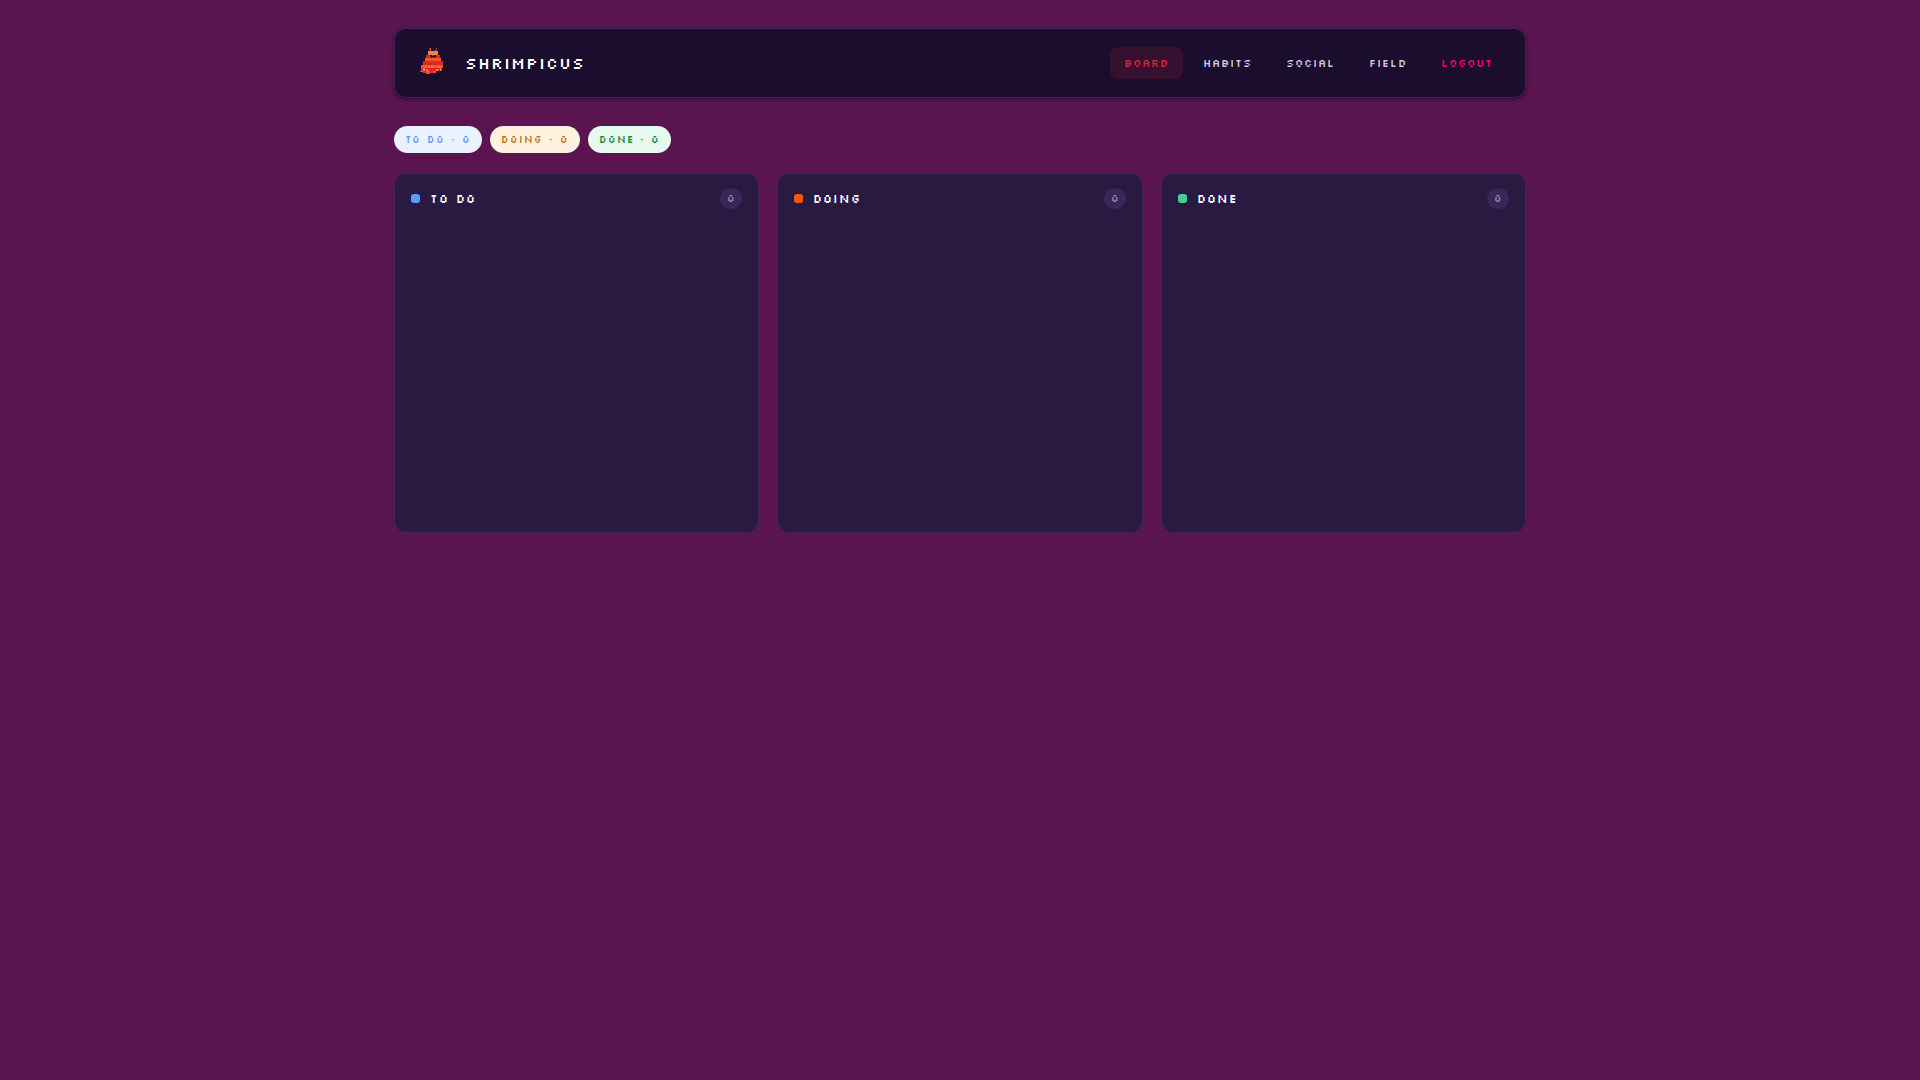
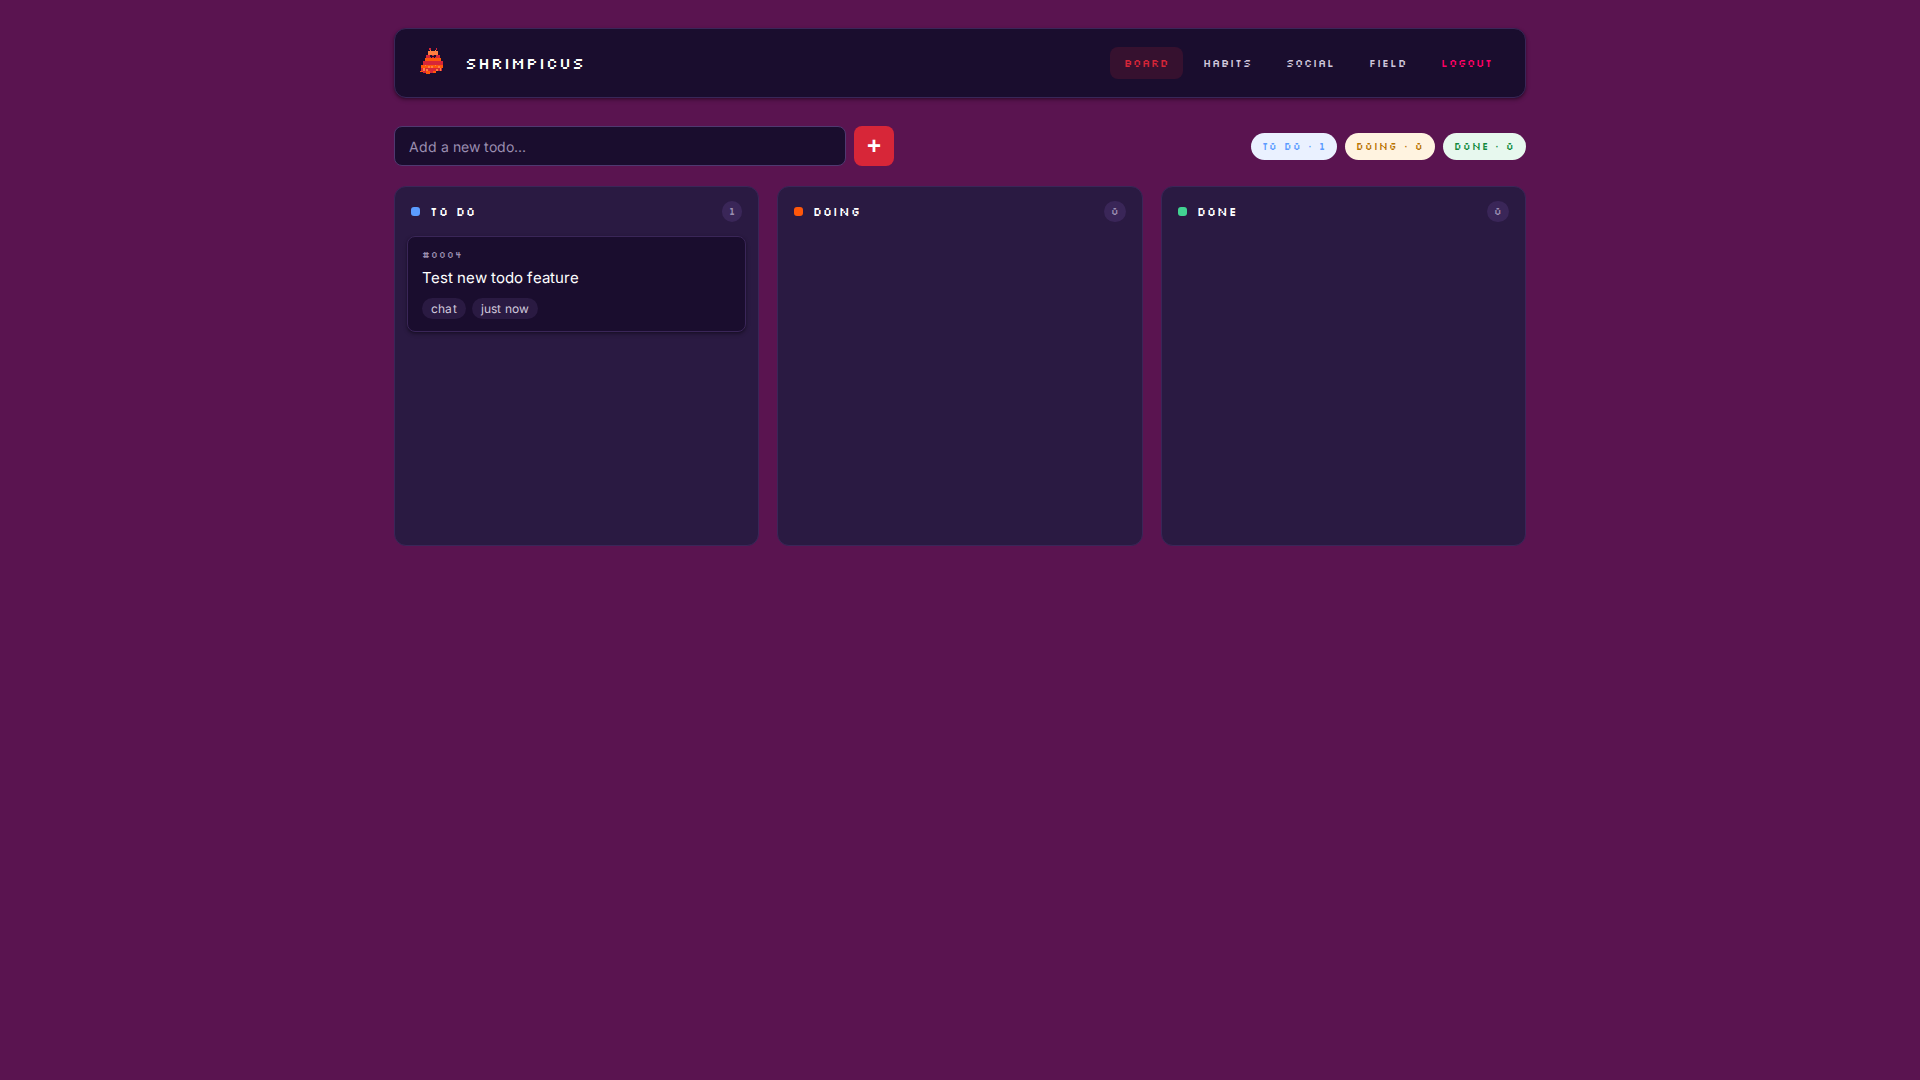
[feat]: add todo creation with + button on board page
- Add todo add form with input field and + button to board toolbar
- Create /todos/add POST route with user authentication
- Style todo input form to match modern UI design
- New todos default to 'to_do' status and 'General' category
- Update board and habits screenshots

Changed region(s): [[0.1875, 0.0917, 0.8125, 0.2139], [0.1875, 0.4889, 0.8125, 0.5194], [0.2188, 0.2444, 0.3125, 0.3056]]

diff --git a/shrimpicus/web/static/style.css b/shrimpicus/web/static/style.css
@@ -119,6 +119,61 @@ body { -webkit-font-smoothing: antialiased; }
   gap: 16px;
   margin-bottom: 20px;
 }
+
+.todo-add-form {
+  display: flex;
+  gap: 8px;
+  flex: 1;
+  max-width: 500px;
+}
+
+.todo-input {
+  flex: 1;
+  background: var(--surface);
+  color: var(--ink);
+  border: 1px solid var(--line-strong);
+  border-radius: var(--radius-sm);
+  padding: 10px 14px;
+  font-family: var(--font-retro);
+  font-size: 14px;
+  transition: border-color 0.2s;
+}
+
+.todo-input:focus {
+  outline: none;
+  border-color: var(--accent);
+}
+
+.todo-input::placeholder {
+  color: var(--ink-faint);
+}
+
+.todo-add-btn {
+  background: var(--accent);
+  color: white;
+  border: none;
+  border-radius: var(--radius-sm);
+  width: 40px;
+  height: 40px;
+  font-size: 24px;
+  font-weight: bold;
+  cursor: pointer;
+  transition: all 0.2s;
+  display: flex;
+  align-items: center;
+  justify-content: center;
+  flex-shrink: 0;
+}
+
+.todo-add-btn:hover {
+  background: var(--accent-dark);
+  transform: scale(1.05);
+}
+
+.todo-add-btn:active {
+  transform: scale(0.98);
+}
+
 .board-toolbar__filter { display: flex; align-items: center; gap: 10px; }
 .board-toolbar__label {
   font-family: var(--font-pixel);